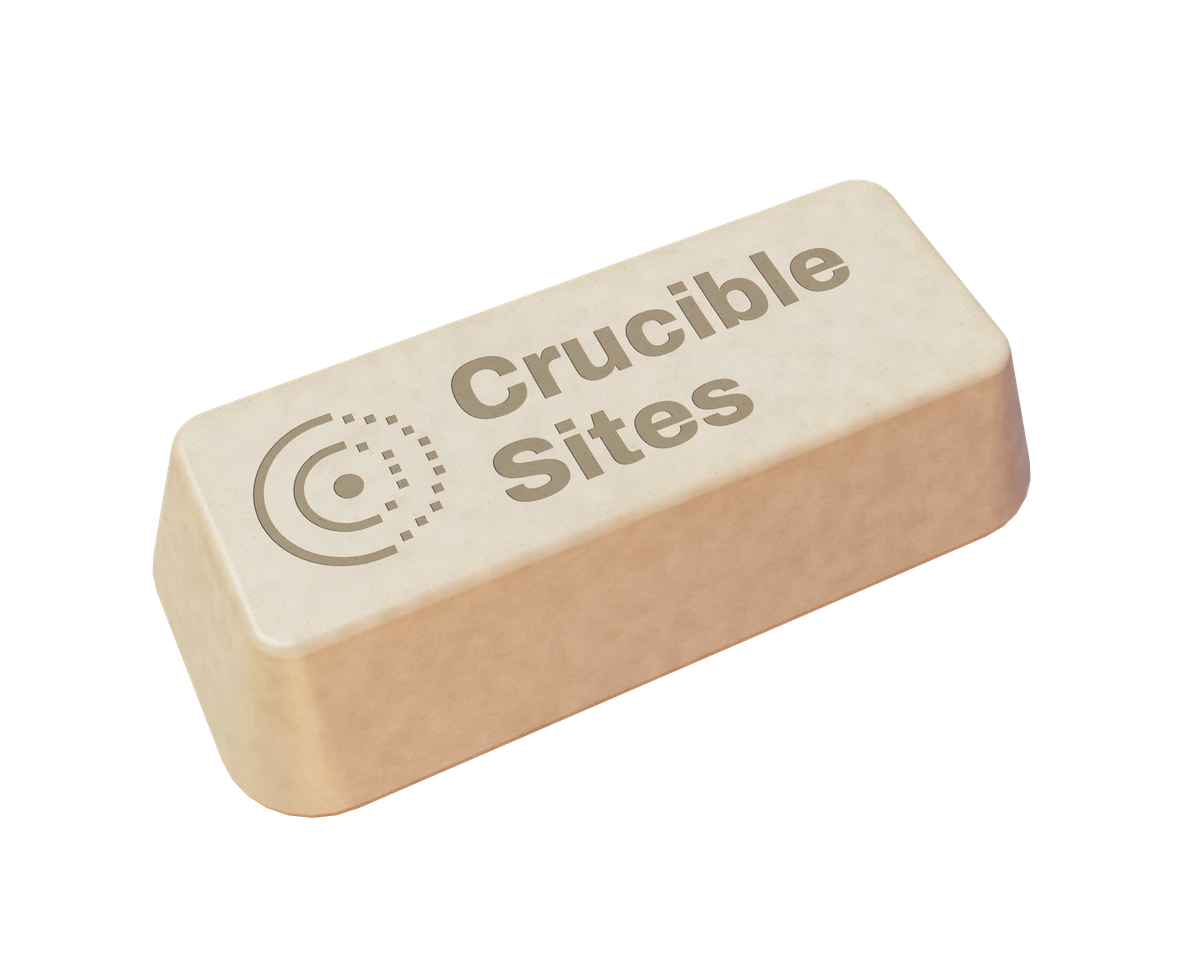
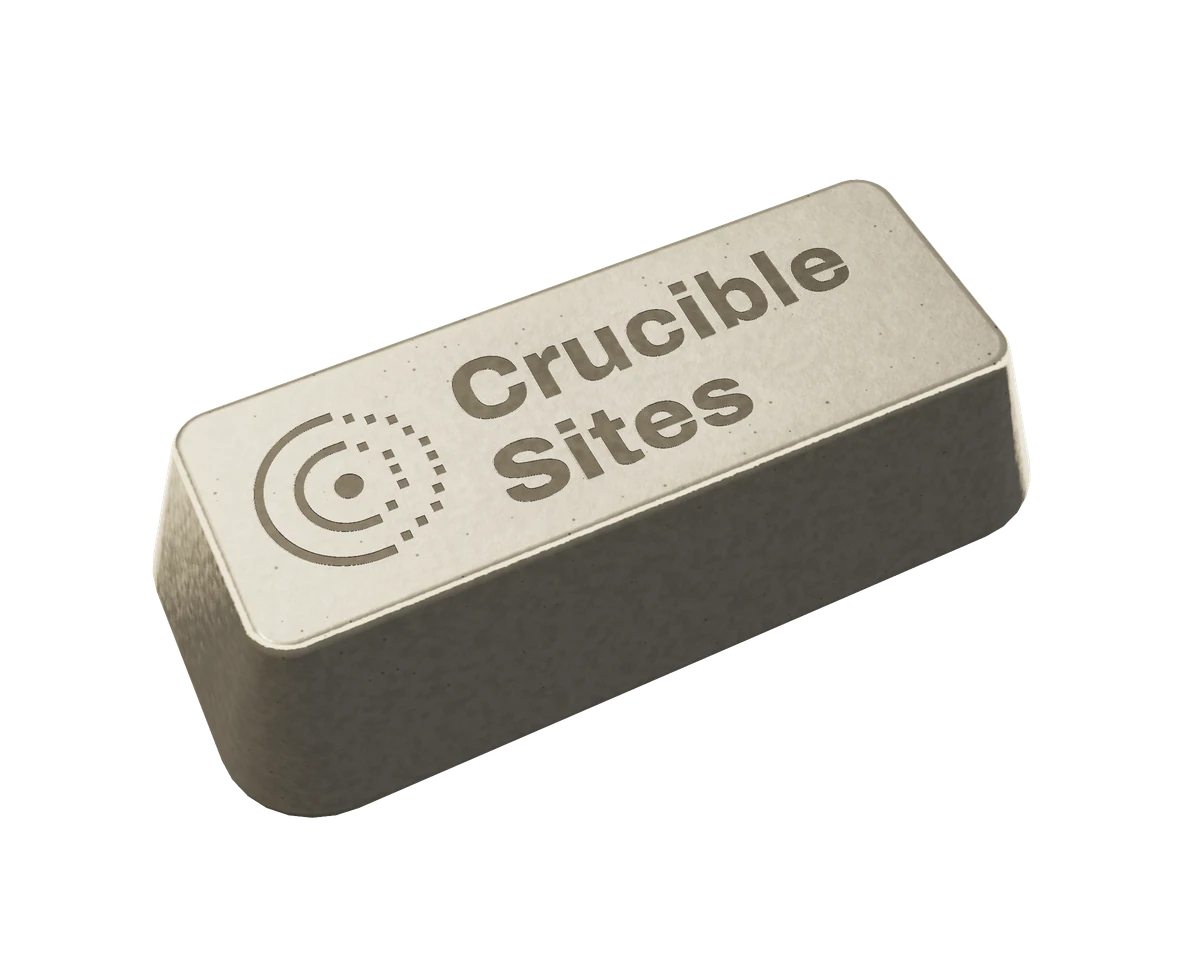
v2: the Sites bar is cast metal, the nav is opaque, ingot frames wait for the GPU
- 'bar' material rewritten as cooled cast bone metal: warm highlights along the fillets, a reflection that slides over the top as it rocks, sand grain and pits, darker neutral walls, the stamp cut in darker; the peach-pink (Ember fill on bone) is gone. Verge and Trellis render unchanged. Sites still re-rendered.
- Nav: opaque, no backdrop-filter; at 92% opacity a bright bar or the logo passing under it showed through as a grey box.
- Ingot worker acks a frame only after a GPU fence: on software GL it had queued ~450 frames (first frame 60 s -> 0.7 s).

Claude-Session: https://claude.ai/code/session_01PrrUSkDFSpj7oKTS8Wa2Wg

diff --git a/lib/gl3d/materials.ts b/lib/gl3d/materials.ts
@@ -1,6 +1,12 @@
 // Procedural materials as one uber shader: sand-cast bone metal, the glowing core, hot metal (temperature uniform), and
-// the ventures' cast bars: 'ingot' (fresh from the mould, glowing all over) and 'bar' (cooled bone with temper colours).
+// the ventures' cast bars: 'ingot' (fresh from the mould, glowing all over) and 'bar' (cooled bone metal).
 // Warm key light upper-left, dim cool fill, an Ember rim from below (as if lit by the liquid), filmic tone map.
+// 'bar' is a metal, not a lit paint: it mirrors a night foundry (the dark liquid below, a dim ceiling, a warm lit wall at
+// the horizon that every fillet sweeps through, so a warm line runs along each edge, and a broad warm softbox above that
+// slides over the top face as the bar rocks), with a tight key glint on the fillets and only a little diffuse. No Ember
+// light from below on it (bone lit by Ember reads peach-pink). Sand grain and the cast skin's waviness are bump octaves
+// faded out as they near the pixel size (no shimmer when it moves), their lost detail kept as roughness; sparse pits.
+// The stamp is cut in darker and rougher.
 import { BAR } from './geometry';
 
 export const MATERIALS = { cast: 0, core: 1, hot: 2, ingot: 4, bar: 5 } as const;
@@ -29,7 +35,7 @@ return .6*(.65*vn(p)+.35*vn(p*2.3+3.1))+.4*(.6*vn(p*9.+7.)+.4*vn(p*21.+1.3));}
 vec3 lit(vec3 alb,vec3 n,vec3 v,float ao,float rough,float spec){
 vec3 L1=normalize(vec3(-.55,.65,.72)),L2=normalize(vec3(.85,.1,.45)),L3=normalize(vec3(.1,-.9,.4));
 float d1=max(dot(n,L1)*.85+.15,0.),d2=max(dot(n,L2)*.8+.2,0.),d3=max(dot(n,L3)*.8+.2,0.);
-vec3 c=alb*(vec3(1.,.82,.6)*1.45*d1+vec3(.34,.44,.62)*.42*d2+vec3(1.,.36,.1)*(uMat==5?.5:1.)*d3+vec3(.11,.09,.075)*(.6+.4*n.y))*ao;
+vec3 c=alb*(vec3(1.,.82,.6)*1.45*d1+vec3(.34,.44,.62)*.42*d2+vec3(1.,.36,.1)*d3+vec3(.11,.09,.075)*(.6+.4*n.y))*ao;
 float sh=mix(70.,9.,rough);
 c+=vec3(1.,.88,.7)*pow(max(dot(n,normalize(L1+v)),0.),sh)*spec*d1;
 c+=vec3(1.,.4,.14)*pow(max(dot(n,normalize(L3+v)),0.),sh*.5)*spec*.7*d3;
@@ -50,11 +56,11 @@ vec3 g=vec3(0.);
 #else
 vec3 g=vec3(ht(p+vec3(e,0,0))-h0,ht(p+vec3(0,e,0))-h0,ht(p+vec3(0,0,e))-h0)/e;
 #endif
-float k=uMat==2?.5:uMat==1?.9:uMat==4?.3:uMat==5?.28:.55;
+float k=uMat==2?.5:uMat==1?.9:uMat==4?.3:uMat==5?.08:.55;
 g-=dot(g,nO)*nO;
 float rl=0.,ao=.6+.8*h0;
 vec3 n0=nO;
-vec3 nn=normalize(nO-g*k/uGrain*.05);
+vec3 nn=normalize(nO-g*k/uGrain*.05),nb=nn;
 if(uRel!=0.){vec2 uv=(p.xy-uRelP.xy)/uRelP.zw+.5,d=clamp(fwidth(uv)*.55,vec2(.0004),vec2(.0011));float w=smoothstep(.6,.95,nO.z)*step(0.,min(uv.x,uv.y))*step(max(uv.x,uv.y),1.);
 rl=texture(uRelT,uv,-1.5).r*w;
 vec2 gr=vec2(texture(uRelT,uv+vec2(d.x,0),-1.5).r-texture(uRelT,uv-vec2(d.x,0),-1.5).r,texture(uRelT,uv+vec2(0,d.y),-1.5).r-texture(uRelT,uv-vec2(0,d.y),-1.5).r)*w*(.0011/d);
@@ -102,16 +108,33 @@ col=mix(em,skin,sc)+sp*(1.-.7*sc);
 float dr=(p.z+HZ)*TD;
 float ds=max(0.,min(HA-dr-abs(p.x),HB-dr-abs(p.y)));
 float de=length(vec2(ds,max(HZ-p.z,0.)));
-float ti=uTemper.y*exp(-de/3.)*(.6+.4*vn(p*.21+uSeed));
-vec3 tc=mix(vec3(.66,.44,.2),vec3(.84,.72,.46),smoothstep(.0,3.,de));
-float pit=smoothstep(.8,.95,vn(p*uGrain*15.+uSeed))*smoothstep(.8,.95,nO.z);
-float a2=.86+.28*h0;
-vec3 al=mix(bone,vec3(.2,.185,.18),uTone)*(.9+.2*mix(h0,.5,.8*rl))*(1.-.35*pit);
-al=mix(al,al*tc*1.25,ti)*(1.-.62*rl);
+float fw=length(fwidth(p));
+vec3 sg=vec3(0.);
+float sd=0.;
+#ifndef SOFT
+for(int i=0;i<3;i++){float f=i==0?.3:i==1?1.3:3.4,a=(i==0?.9:i==1?.35:.2)*(1.-smoothstep(.45,.9,fw*f));
+vec3 q=p*f+uSeed*(5.+float(i));float q0=vn(q);
+if(i>0)sd+=(q0-.5)*a;sg+=a*f*vec3(vn(q+vec3(.1,0,0))-q0,vn(q+vec3(0,.1,0))-q0,vn(q+vec3(0,0,.1))-q0)/.1;}
+sg-=dot(sg,nO)*nO;
+#endif
+vec3 pc=p*.7+uSeed*7.,ci=floor(pc),po=fract(pc)-.5-(vec3(h3(ci+1.7),h3(ci+3.1),h3(ci+5.3))-.5)*.5;float pr=.09+.12*h3(ci+8.9);
+float pit=step(.75,h3(ci))*smoothstep(pr,pr*.3,length(po))*(1.-smoothstep(.12,.3,fw))*mix(.4,1.,smoothstep(.5,.9,nO.z))*(1.-rl);
+vec3 n=normalize(uNM*normalize(mix(nn,nb,.75*smoothstep(.15,.45,fw))-sg*.045*(1.-.8*rl)));
+float ro=clamp(.36+.4*sd+.12*smoothstep(.45,.9,fw*3.4)+.3*pit+.35*rl,.15,1.),w=ro*ro;
+vec3 F0=mix(vec3(.8,.77,.7),vec3(.3,.29,.27),uTone)*(.96+.22*sd)*(1.-.55*pit)*(1.-.7*rl);
+F0=mix(F0,F0*vec3(1.03,.97,.8),uTemper.y*exp(-de/1.6)*(.6+.4*vn(p*.21+uSeed)));
+float ab=(.92+.2*sd)*(1.-.3*pit)*(1.-.35*rl);
+vec3 K=normalize(vec3(-.55,.65,.72)),S=normalize(vec3(-.3,.9,.3)),L2=normalize(vec3(.85,.1,.45));
+float nv=max(dot(n,v),1e-3);
+vec3 F=F0+(1.-F0)*pow(1.-nv,5.)*.5;
 vec3 rr=reflect(-v,n);
-vec3 env=mix(vec3(.04,.03,.025)+vec3(.5,.14,.03)*smoothstep(.1,-.7,rr.y),vec3(1.,.9,.76),smoothstep(-.1,.9,rr.y));
-float fr=.25+.75*pow(1.-max(dot(n,v),0.),5.);
-col=lit(al,n,v,mix(a2,.75,.6*rl),.38,.8*(1.-.7*rl)*(1.-.5*pit))*.82+al*env*fr*.55*(1.-.6*rl);
+vec3 env=mix(vec3(.016,.014,.012),vec3(.09,.086,.08),smoothstep(-.1-.3*w,.1+.3*w,rr.y));
+env+=vec3(1.,.85,.62)*1.5*smoothstep(-.14-.2*w,.04,rr.y)*(1.-smoothstep(.28,.5+.2*w,rr.y));
+env+=vec3(1.,.88,.68)*1.2*pow(max(dot(rr,S),0.),mix(11.,3.,w));
+vec3 h=normalize(K+v);float nh=max(dot(n,h),0.),nl=max(dot(n,K),0.);
+vec3 sp=F*env+F*vec3(1.,.84,.6)*nl*(pow(nh,mix(70.,12.,w))*.4+pow(nh,400.)*2.5*(1.-pit)*(1.-rl));
+vec3 df=F0*(vec3(1.,.88,.7)*.14*nl+vec3(.3,.33,.38)*.12*max(dot(n,L2),0.)+vec3(.13,.125,.115)*(.7+.3*n.y));
+col=(df+sp)*ab;
 }
 col*=uExp;
 col=clamp((col*(2.51*col+.03))/(col*(2.43*col+.59)+.14),0.,1.);

diff --git a/lib/gl3d/ingotRunner.ts b/lib/gl3d/ingotRunner.ts
@@ -22,6 +22,9 @@ export type IngotRunner = {
   frame(t: number, pose: IngotPose, held: boolean): boolean;
   /** Long tasks keep landing on the main thread: step down. */
   down(): void;
+  /** Call `cb` once the GPU has finished everything drawn so far (a fence, polled; never blocks). The worker acks a
+   *  frame only then, so a GPU slower than the clock's ticks paces the ticks instead of queueing frame after frame. */
+  afterGPU(cb: () => void): void;
   readonly q: number;
   dispose(): void;
 };
@@ -65,6 +68,7 @@ export function createIngotRunner(
   };
 
   let drawn = false;
+  const gl = canvas.getContext('webgl2') as WebGL2RenderingContext | null; // the stage's own context (same canvas, same type)
   return {
     get q() { return q; },
     frame(t, pose, held) {
@@ -80,6 +84,20 @@ export function createIngotRunner(
       return true;
     },
     down() { if (cool <= 0) stepDown(); },
+    afterGPU(cb) {
+      const sync = gl && !gl.isContextLost() ? gl.fenceSync(gl.SYNC_GPU_COMMANDS_COMPLETE, 0) : null;
+      if (!gl || !sync) { setTimeout(cb, 0); return; }
+      gl.flush();
+      const t0 = performance.now();
+      const poll = () => {
+        const r = gl.isContextLost() ? gl.WAIT_FAILED : gl.clientWaitSync(sync, 0, 0);
+        // a fence that never signals (lost context, driver trouble) must not hold the clock: give up after 2 s
+        if (r === gl.TIMEOUT_EXPIRED && performance.now() - t0 < 2000) { setTimeout(poll, 1); return; }
+        if (!gl.isContextLost()) gl.deleteSync(sync);
+        cb();
+      };
+      setTimeout(poll, 0);
+    },
     dispose() { canvas.removeEventListener('webglcontextlost', lost); stage.dispose(); },
   };
 }

diff --git a/lib/gl3d/ingotWorker.ts b/lib/gl3d/ingotWorker.ts
@@ -1,7 +1,8 @@
 // A venture's bar, off the main thread (one worker per ingot canvas): owns the OffscreenCanvas (WebGL2) and draws
 // exactly what the main frame posts (ingotScene.ts): the time on the one clock, the canvas' CSS size and the bar's pose
 // (computed there, on the liquid's grid). It keeps no clock and runs no loop of its own: one tick, one draw (or a skip
-// under the fps cap), one 'drawn' back after the drawing task, so the frame is committed by then. It also draws the
+// under the fps cap), one 'drawn' back once the GPU has finished that frame (a fence), so the frame is committed by then
+// and a slow GPU paces the ticks instead of queueing them. It also draws the
 // relief map (lettering, mark) with the site's Archivo loaded here via FontFace, so a slow or software GL (Lighthouse,
 // PageSpeed) never blocks the page.
 import { createIngotRunner, type IngotRunner } from './ingotRunner';
@@ -57,7 +58,11 @@ ctx.onmessage = (e) => {
       css.w = m.css.w;
       css.h = m.css.h;
       const drew = runner.frame(t, m.pose, m.held);
-      setTimeout(() => ctx.postMessage({ type: 'drawn', t, drew }), 0);
+      const ack = () => ctx.postMessage({ type: 'drawn', t, drew });
+      // Acked once the GPU has drawn it, not when the commands were issued: otherwise a slow GPU (software GL) gets
+      // frame after frame queued (the first harness screenshot on /ventures waited ~60 s for ~450 queued bars).
+      if (drew) runner.afterGPU(ack);
+      else setTimeout(ack, 0);
     };
     if (runner) draw();
     else ready?.then(draw);

diff --git a/app/globals.css b/app/globals.css
@@ -228,11 +228,11 @@ html.lenis body {
 }
 
 /* ---------- Nav ---------- */
-/* Always solid (background + hairline) at every scroll position: it never waits on a scroll handler and never animates. */
+/* Always solid (background + hairline) at every scroll position: it never waits on a scroll handler and never animates.
+   Opaque ground, no backdrop blur: through any translucency a bright object passing under it (a bar, the logo) showed as
+   a grey box, and a blur over the ever-moving liquid is a re-blur every frame. Over the liquid it looks the same. */
 .nav {
-  background: color-mix(in srgb, var(--ground) 92%, transparent);
-  -webkit-backdrop-filter: blur(14px);
-  backdrop-filter: blur(14px);
+  background: var(--ground);
   border-bottom: 1px solid var(--line);
 }
 
